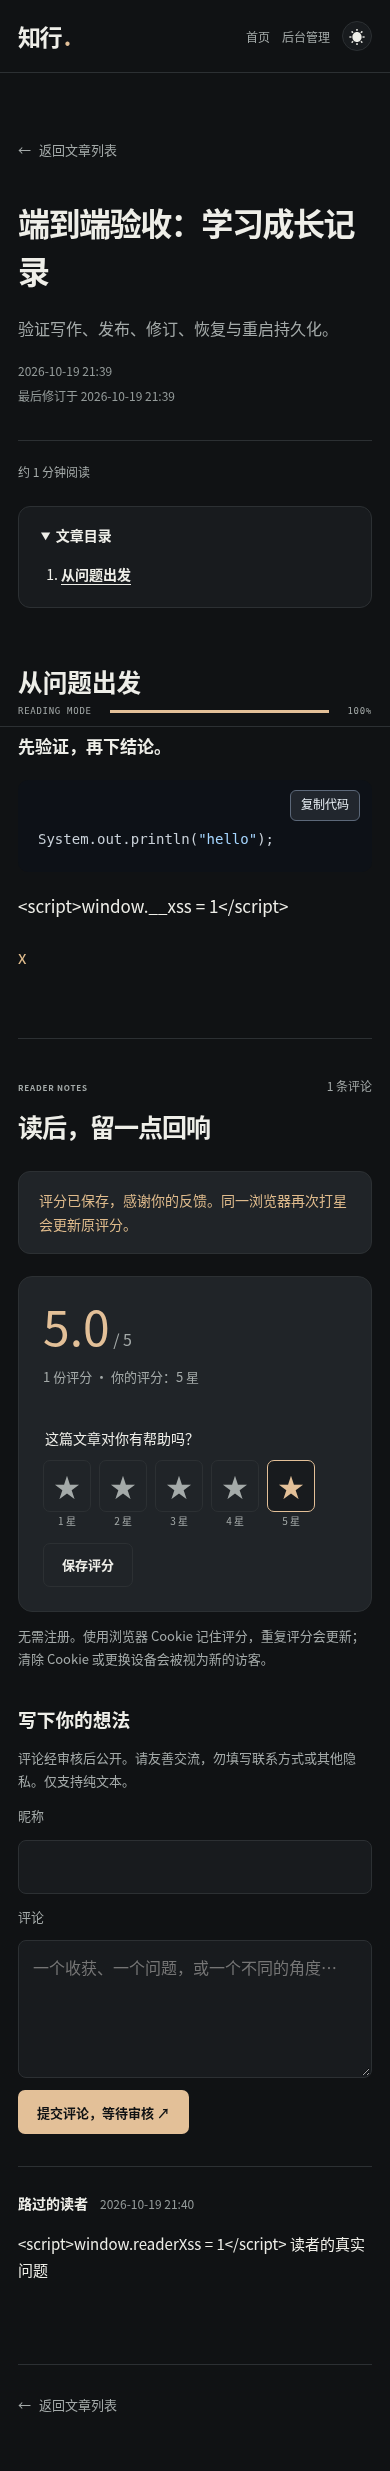
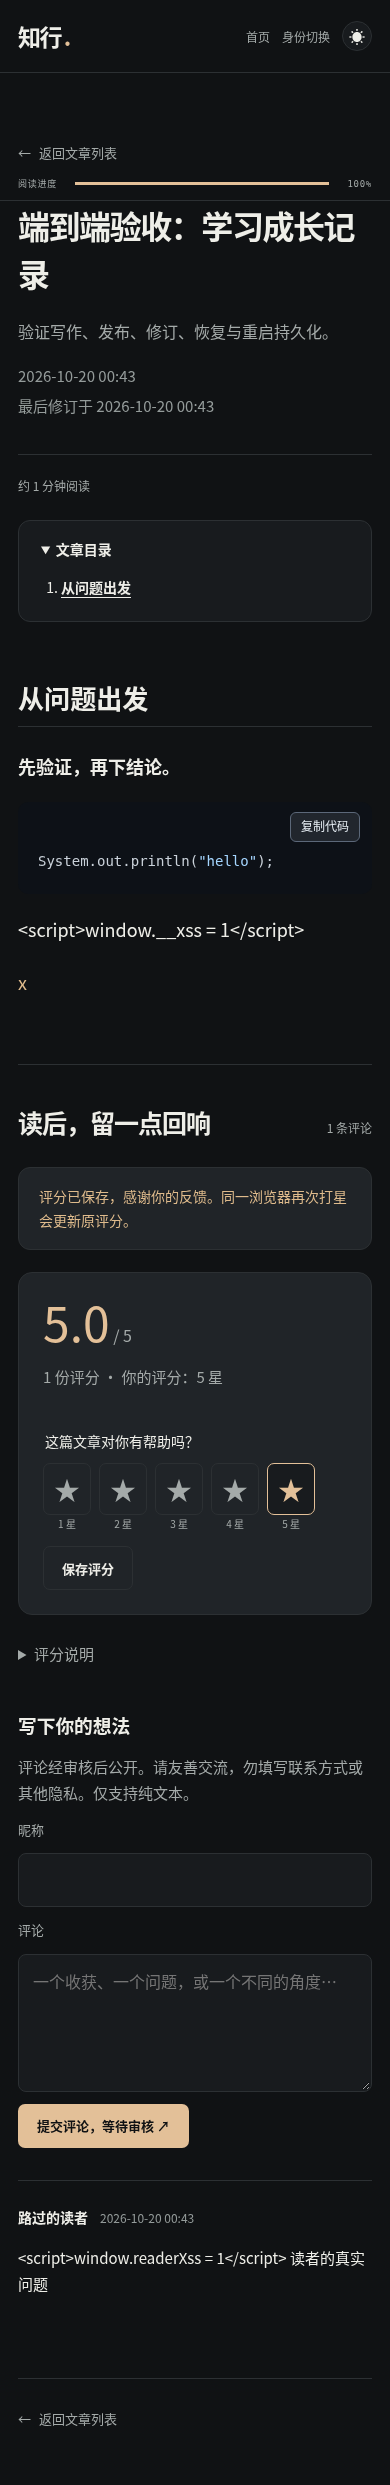
docs: publish reader and author previews with V3 upgrade guide

diff --git a/README.md b/README.md
@@ -2,7 +2,7 @@
 
 **不止于学会，更要有所创造。**
 
-一个基于 Java 21 / Spring Boot 的个人技术博客。用 Markdown 记录实践，用修订时间线与逐行对比展示思考如何完善；支持本机使用，以及带管理员认证的公网部署。
+一个基于 Java 21 / Spring Boot 的个人技术博客。读者打开就能看到最新文章，也能签到、投票和留言；作者登录独立工作台管理内容与互动。保留 Markdown、修订时间线和逐行对比，支持本机使用及公网部署。
 
 ![新版首页实机截图](docs/screenshots/home-desktop.png)
 
@@ -21,7 +21,9 @@
 
 | 模块 | 已实现 |
 | --- | --- |
-| 公开阅读 | 已发布文章列表、详情、搜索、分页、无匹配和错误页面 |
+| 公开阅读 | 简短欢迎语、最新文章长预览、折叠搜索、分页、较大字号与清晰按钮 |
+| 读者首页互动 | 每日五种心情签到、单选投票、审核留言墙及作者回复 |
+| 作者工作台 | 独立概览、文章/待审核统计、评分概况、欢迎语设置、投票管理与心情统计 |
 | 写作 | Markdown、安全预览、表单校验、草稿、发布、撤回、确认删除 |
 | 成长记录 | 每次保存生成快照、修改说明、历史分页、恢复为草稿、并发编辑保护 |
 | **版本逐行对比** | 历史与当前内容的源文差异、增删行高亮、双行号、增删统计、标题/摘要/状态对照 |
@@ -31,7 +33,7 @@
 | 对外访问 | 管理员登录、退出、访客权限隔离、登录限流、CSRF、安全响应头 |
 | 部署 | 非 root 容器、只读根文件系统、持久卷、数据库健康检查、Caddy HTTPS 代理 |
 
-普通读者无需注册。作者在共享/公网模式中登录后管理文章。默认本机模式仍可直接操作后台。
+普通读者无需注册。默认进入读者首页，右上角「身份切换」可选读者或作者；选择作者不授予权限，共享/公网模式仍须密码验证，登录后进入 `/admin/overview`。默认本机 dev 是免登录开发演示，只能本机使用；读者页即使在作者已登录时也不展示编辑或后台管理按钮。
 
 ### 读者评论与星级评分
 
@@ -42,6 +44,19 @@
 评论限制昵称 40 字、正文 2000 字，内容按纯文本转义；POST 保持 CSRF 校验。单 IP 每分钟最多提交 5 次评论、15 次评分，评论另设蜜罐字段。这些措施不能完全消除垃圾评论，也不替代人工审核或平台防护。
 
 [手机评论与评分截图](docs/screenshots/discussion-mobile.png) · [后台审核截图](docs/screenshots/moderation-desktop.png)（含刻意输入的脚本字符串，用于验证纯文本转义，不会执行）。
+
+### 读者首页与作者工作台
+
+欢迎语 → 简短心情签到 → 最新一篇较长的纯文本预览 → 其余文章和分页 → 作者投票与留言墙。搜索收进「搜索文章」，点击展开。没有大型宣传区、英文功能介绍或读者用不到的编辑入口。
+
+- **心情**：开心、平静、疲惫、低落、期待。按北京时间每日每浏览器一份，可修改；公开当天分布，不展示个人签到记录。
+- **投票**：作者一次发布一个当前投票，2～6 个选项；每浏览器单选，可修改，参与后才在首页展示结果。作者可结束投票，历史结果保留在工作台（最近 10 个）。
+- **留言墙**：昵称和纯文本留言，审核后公开，作者回复随公开留言展示。隐藏或删除留言也隐藏或删除其回复；公开留言每页 10 条。
+- **工作台**：文章数、已发布数、待审核评论/留言、评分概况、当天心情与投票结果。欢迎语可修改，没有加入访问量跟踪。
+
+匿名互动复用浏览器 Cookie，不保证一人一票。心情和投票每 IP 每分钟各 15 次、留言 5 次，均保留 CSRF；留言另外使用蜜罐和人工审核。清除 Cookie 或换设备后可再次参与。
+
+[读者首页实机截图](docs/screenshots/reader-home-mobile.png) · [作者工作台截图](docs/screenshots/author-workspace.png)
 
 ### 两个重点设计
 
@@ -207,7 +222,7 @@ docker compose up -d --build
 - `data/`、`.env`、构建输出和依赖缓存都不会提交到 Git。
 
 **升级前先停止应用并备份数据。**已有 Git 项目使用 `git pull --ff-only`；ZIP 用户将新版解压到新目录，保留备份，再迁移旧 `data/`。不要误删旧目录中的文章。
-评论与评分通过新增 **V2** 迁移建表，V1 保持不变；首次启动新版会自动升级数据库，保留已有文章和修订。升级前务必备份，回滚应结合备份与迁移兼容性处理。
+评论和评分使用 V2；读者首页互动与欢迎语新增 **V3**。V1/V2 保持不变，首次启动新版会自动升级数据库，保留已有文章、修订、评论和评分。升级前务必备份，回滚应结合备份与迁移兼容性处理。
 
 公网更新流程与回滚注意事项见 [部署文档](docs/DEPLOYMENT.md)。不要执行 `docker compose down -v`，该命令会删除数据库卷和证书卷。
 
@@ -219,7 +234,7 @@ docker compose up -d --build
 bash mvnw -B -ntp verify
 ```
 
-当前基线：**103 项测试，0 失败、0 错误、0 跳过**。包括原有业务、事务/并发、Markdown 安全、版本对比、认证、限流和数据库迁移。
+当前基线：**112 项测试，0 失败、0 错误、0 跳过**。包括原有业务、事务/并发、Markdown 安全、版本对比、认证、限流和数据库迁移。
 
 ### 真实浏览器
 

diff --git a/docs/ARCHITECTURE.md b/docs/ARCHITECTURE.md
@@ -93,3 +93,11 @@ JavaScript 只增强预览、复制和离页提醒；核心的发布、编辑、
 评论默认 PENDING，仅 APPROVED 可公开；HIDDEN 可重新通过。管理员操作携带版本号，旧窗口不能覆盖新审核状态。公开列表和审核列表均分页，索引覆盖文章/状态/时间与审核队列。文本始终 `th:text` 转义，不走 Markdown HTML 渲染。
 
 所有修改仍使用普通 POST + CSRF。匿名标识是随机 UUID Cookie（HttpOnly / SameSite=Lax，HTTPS 下 Secure），并非账户或身份认证。服务只在有界内存中短期保留限流用 IP，不将 IP 写入评论或评分数据库。Cookie 可以清除，攻击者也能模拟多个浏览器，因此仍需人工审核，评分不具备严格防刷保证。
+
+## 首页互动与独立工作台
+
+V3 新增 site_settings、mood_entries、guest_messages、reader_polls、poll_votes。CommunityData 提供实体映射与结构校验，CommunityService 用参数化 JDBC 在事务内处理聚合与写入。实体不暴露写 API；固定记录的锁协调欢迎语/当前投票与每日签到，投票行锁协调重复或并发投票。唯一约束限制每天每浏览器一份心情、每投票每浏览器一票，以及最多一个当前投票（active_slot=1，已结束为 NULL）。
+
+欢迎语和留言审核/回复携带版本号；留言默认 PENDING，回复不会自动公开留言。每天按北京时间划分，公开的只有当天心情分布；评论、评分与文章修订保持独立。访客标识复用 reader_id Cookie，IP 仅用于有界内存限流。匿名标识不等于实名身份，不能严格防刷。
+
+读者 `/` 和文章页不渲染管理链接；`/identity` 只提供导航。身份选择不授予任何权限，public/shared 仍由 Spring Security 保护全部 `/admin/**`。作者登录成功进入 `/admin/overview`，可另开读者首页预览；退出作者身份可在身份页注销会话。开发 dev 仍保持回环监听的免登录演示。

diff --git a/docs/DEMO.md b/docs/DEMO.md
@@ -51,3 +51,7 @@
 用未登录窗口打开一篇公开文章，提交昵称与评论，说明“先审核后公开”；切回作者窗口，在后台「评论审核」通过，再刷新访客窗口。演示隐藏后不再公开，以及重复打星更新原评分、票数不增加。最后说明：匿名 Cookie 不是实名认证，清除 Cookie 或换设备可以再次评分；评论限流、蜜罐与审核也不能完全替代平台防护。
 
 互动数据独立于内容修订，恢复历史文章为草稿时公众不能访问，再发布后仍保留评论与评分；永久删除文章会级联清理互动数据。
+
+## 演示新的读者与作者界面
+
+从首页开始：欢迎语后就是心情和最新文章长预览，搜索点击展开，下面保留分页、投票和留言墙。右上选择身份并选作者，说明“选身份只是入口，公网后台必须先登录”。进入独立工作台修改欢迎语、发起单选投票；用访客窗口参与并修改选择，展示票数不增加。提交留言后先不可见，作者回复并审核通过后，访客才看到留言和回复；结束投票后首页不再显示参与表单。

diff --git a/docs/UPGRADE.md b/docs/UPGRADE.md
@@ -42,3 +42,7 @@
 ## 评论与星级评分
 
 新增 V2 数据迁移、读者匿名评论及审核后台、浏览器级 1～5 星评分和均分/票数。V1 不变，升级需要先备份再启动新版。功能实现、界面与回归验证、文档按实际阶段提交。没有访客注册；评论审核后公开，匿名评分不保证一人一票。
+
+## 2026-10-20：内容优先与身份分离
+
+按用户确认的布局重做读者首页，弱化搜索并保留分页、提高正文字号。作者登录后进入独立工作台。加入每日五种心情、单选投票、带审核与作者回复的留言墙、欢迎语配置及所需统计；无访问追踪。V3 新增表，保留 V1/V2；代码、界面与验证、文档截图按真实阶段提交。
